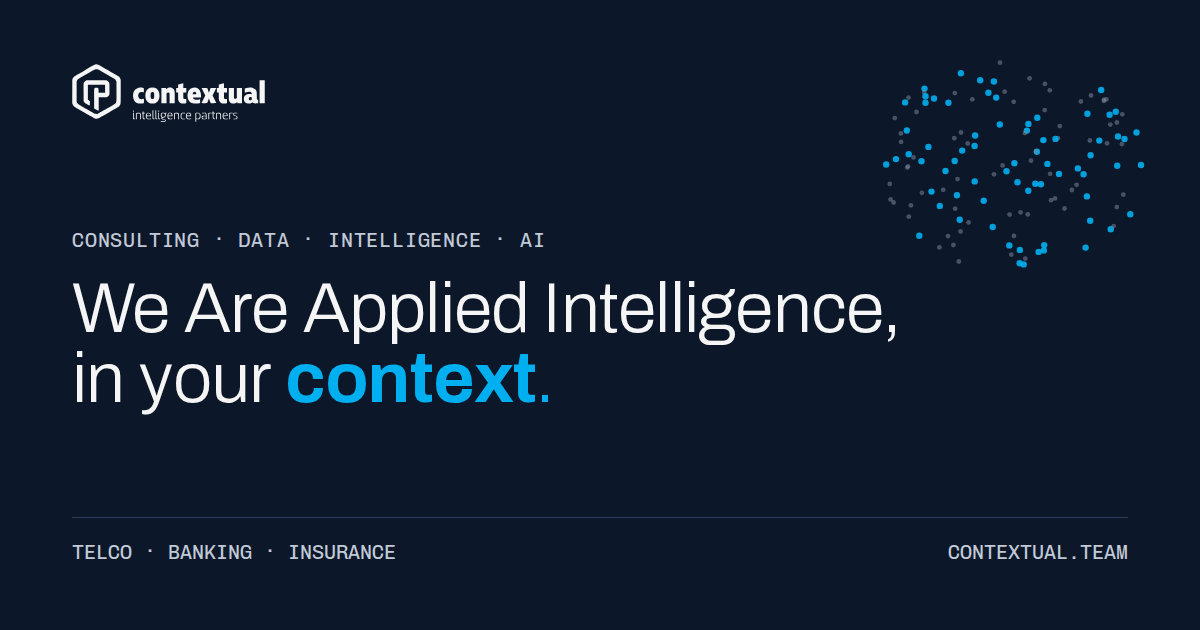
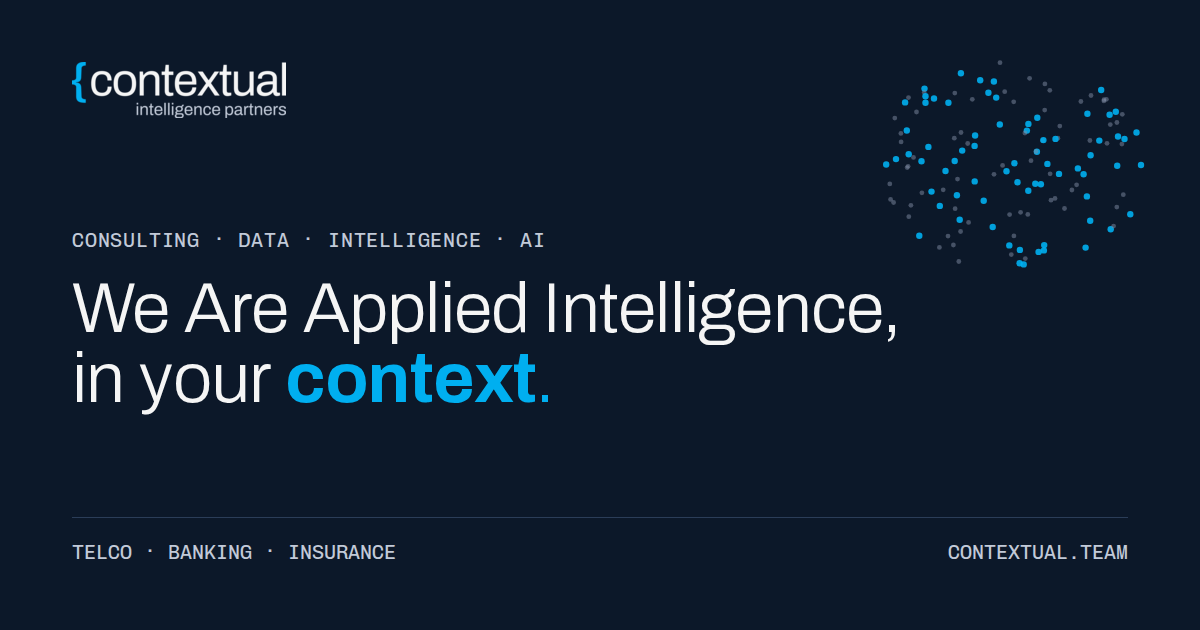
Logotipo nuevo «{contextual»: llave abierta en acento, sin hexágono
- «{» en Archivo Bold y color de acento + «contextual» y, debajo a la derecha,
  «intelligence partners» en Archivo Regular, en trazados (logo.json)
- UiLogo con los colores del tema (acento, bone-white, fog-light)
- Favicon «{c» que cambia con el tema del navegador
- Imágenes para compartir (og-es, og-en) con el logotipo nuevo
- Guía de contenido al día

Changed region(s): [[0.0617, 0.0905, 0.2467, 0.2111]]

diff --git a/app/components/ui/UiLogo.vue b/app/components/ui/UiLogo.vue
@@ -1,8 +1,10 @@
 <script setup lang="ts">
 /*
- * Logo de Contextual Intelligence Partners en vector (símbolo hexagonal + «contextual» +
- * «intelligence partners»), monocromo en el color del texto (bone-white sobre marino).
- * Trazado desde el logo de contextual.team; datos en assets/data/logo.json.
+ * Logotipo de Contextual Intelligence Partners (ruta 33 «Llave abierta», 20/11/2026):
+ * «{» en el color de acento + «contextual» y, alineado a la derecha debajo,
+ * «intelligence partners» en un tono más apagado. Archivo Regular convertida en trazados
+ * (assets/data/logo.json); colores del tema (acento cian/azul de marca según el modo,
+ * bone-white + fog-light sobre marino; marino + gris azulado en modo claro).
  */
 import logo from '~/assets/data/logo.json'
 
@@ -14,17 +16,17 @@ const { t } = useI18n()
 </script>
 
 <template>
-  <NuxtLinkLocale to="/" :aria-label="t('common.home')" class="inline-block text-bone-white">
+  <NuxtLinkLocale to="/" :aria-label="t('common.home')" class="inline-block">
     <svg
       :viewBox="logo.viewBox"
-      class="w-auto fill-current"
+      class="w-auto"
       :class="size === 'md' ? 'h-14' : 'h-11'"
-      fill-rule="evenodd"
       aria-hidden="true"
       focusable="false"
     >
-      <path :d="logo.mark" />
-      <path :d="logo.text" />
+      <path :d="logo.brace" class="fill-accent" />
+      <path :d="logo.name" class="fill-bone-white" />
+      <path :d="logo.descriptor" class="fill-fog-light" />
     </svg>
   </NuxtLinkLocale>
 </template>

diff --git a/.claude/skills/contextual-web/references/content.md b/.claude/skills/contextual-web/references/content.md
@@ -126,7 +126,7 @@ Tomados de la web actual (contextual.team); pueden estar desactualizados:
 - Oficinas declaradas en la web antigua: Madrid, Milán, Lisboa, México, Tallin, Zúrich (varias con teléfonos de relleno). Publicada solo Madrid en la lista. El mapa de «Dónde estamos» (México, Madrid, Zúrich, Londres, Riad, Tel Aviv) desapareció con la página «Nosotros» el 20/11/2026; la sede de Madrid se publica en el pie.
 - Domicilio social (BORME, mayo 2026): C/ Espoz y Mina 2, Madrid. NIF B87568440. Fundada en 2016.
 - Email de contacto: **hola@contextual.team** (único; formulario, legal y contacto).
-- Logo: vectorizado el 18/11/2026 desde `contextual_logo_new.avif` de contextual.team (símbolo hexagonal + «contextual» + «intelligence partners»), en `app/assets/data/logo.json` y `UiLogo` (monocromo, color del texto). `public/favicon.svg` usa solo el símbolo. Si llega el vector oficial, sustituye `logo.json`.
+- Logo (decisión del cliente, 20/11/2026): logotipo sin símbolo, ruta 33 «Llave abierta» — «{contextual» con la llave en Archivo Bold (700) y en el color de acento, separada de la «c» 0,12 em, y, debajo y alineado a la derecha, «intelligence partners» más pequeño y en un tono más apagado. Nombre y descriptor en Archivo Regular (400); ambos pesos los carga la web, con «contextual» ligeramente apretado (−0,03 em). La llave abierta es el único acento del logotipo: el contexto que se abre con cada cliente. Sustituye al hexágono de contextual.team. Trazados en `app/assets/data/logo.json` (`brace`, `name`, `descriptor`), pintados por `UiLogo` con los colores del tema (`accent`, `bone-white` y `fog-light`; en modo claro, azul de marca, marino y gris azulado). `public/favicon.svg` es «{c» (llave en acento, también según el tema del navegador) y `public/og-{es,en}.png` llevan el logotipo nuevo. No se recompone con texto en vivo: si cambia, se regeneran los trazados.
 
 
 **Sin preguntas frecuentes (decisión del cliente, 20/11/2026):** la web no tiene secciones de FAQ en ninguna página (ni datos estructurados FAQPage). Si una duda importa, se responde en el propio contenido de la sección.
